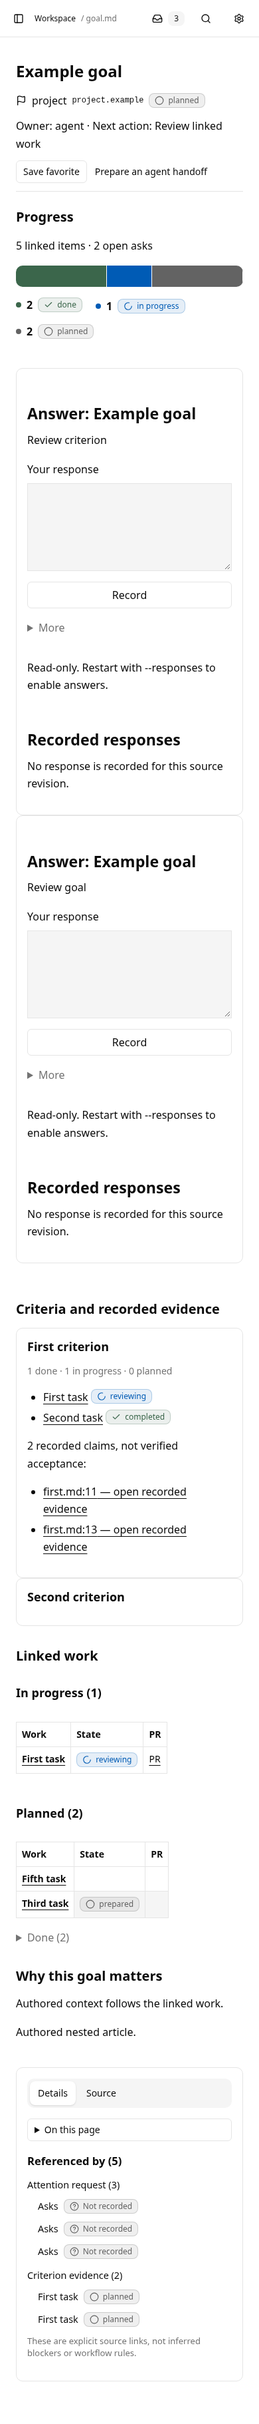
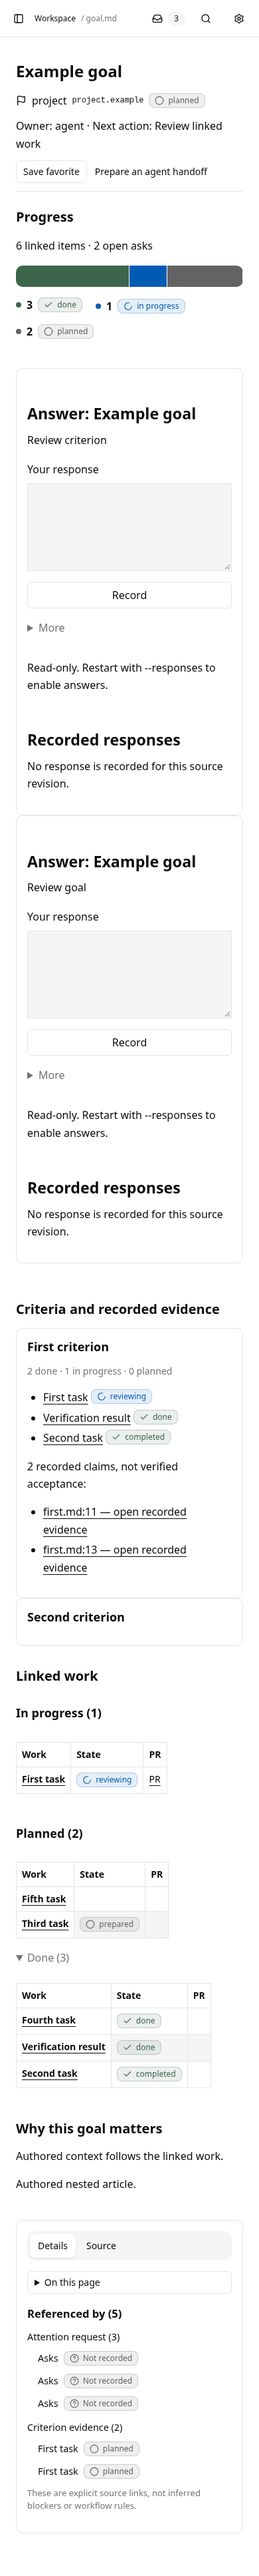
Goal pages read all implementing items from the goals query

diff --git a/packages/work-board/src/client/react/goalLinkedItems.dom.spec.tsx b/packages/work-board/src/client/react/goalLinkedItems.dom.spec.tsx
@@ -1,0 +1,72 @@
+import { Effect } from "effect";
+import { expect } from "vitest";
+import { eventually } from "@shivaedev/effect-react/testing.ts";
+import { it } from "@shivaedev/effect-test/it.ts";
+import type { GoalsProjection } from "#browser/views/GoalsProjection.ts";
+import { routeQueryOptions } from "#client/page/routeQuery.ts";
+import { goalPageFixture } from "#test/goalPageFixture.ts";
+import { renderBoard } from "#test/react.tsx";
+import { DocumentMain } from "./DocumentMain.tsx";
+
+it.live.each(["result", "decision", "question", "response"] as const)("shows an implementing %s in its criterion and work group", function* (kind) {
+	const id = `${kind}.linked`;
+	let readProgress: () => GoalsProjection | undefined = () => undefined;
+	const view = yield* Effect.promise(() =>
+		renderBoard(
+			{
+				...goalPageFixture(),
+				"linked.md": `---
+id: ${id}
+kind: ${kind}
+status: done
+relationships:
+ - kind: implements
+   target: project.example#first
+ - kind: implements
+   target: project.example
+---
+# Linked ${kind}`,
+			},
+			(api, registry) => {
+				const query = api.goals.query(undefined, routeQueryOptions);
+				readProgress = () => {
+					const result = registry.get(query);
+					return result._tag === "Success" ? result.value : undefined;
+				};
+				return <DocumentMain api={api} onPage={() => undefined} url="/goal.md" />;
+			},
+		),
+	);
+	try {
+		yield* Effect.promise(() => eventually(() => expect(view.container.querySelectorAll("[data-goal-item]")).toHaveLength(6)));
+		const goal = readProgress()?.goals.find((entry) => entry.id === "project.example");
+		expect(goal?.linked).toBe(6);
+		const counts = Object.fromEntries(
+			[...view.container.querySelectorAll<HTMLElement>("[data-goal-counts] [data-count]")].map((segment) => [
+				segment.dataset.status,
+				Number(segment.dataset.count),
+			]),
+		);
+		expect(counts).toEqual(goal?.counts);
+		for (const [item, group] of [
+			[id, "Done"],
+			["task.first", "Planned"],
+			["task.second", "Planned"],
+			["task.third", "Deferred"],
+			["task.fourth", "Done"],
+			["task.fifth", "Planned"],
+		]) {
+			const rows = view.container.querySelectorAll(`[data-goal-item="${item}"]`);
+			expect(rows).toHaveLength(1);
+			expect(rows[0]?.closest("[data-goal-group]")?.getAttribute("data-goal-group")).toBe(group);
+		}
+		const links = view.container.querySelectorAll(`#criterion-first a[href="/_board/item/${id}/"]`);
+		expect(links).toHaveLength(1);
+		expect(links[0]?.parentElement?.querySelector("[data-status-token]")?.textContent).toBe("done");
+		expect(goal?.criteria[0]?.counts).toEqual({ done: 1, "in progress": 0, planned: 2 });
+		expect(view.container.querySelector("#criterion-first [data-criterion-progress]")?.textContent).toBe("1 done · 0 in progress · 2 planned");
+		expect(view.container.querySelector("#criterion-second")?.textContent).toBe("Second criterion");
+	} finally {
+		yield* Effect.promise(() => view.unmount());
+	}
+});

diff --git a/packages/work-board/src/client/react/GoalPage.tsx b/packages/work-board/src/client/react/GoalPage.tsx
@@ -9,15 +9,14 @@ import type { ShellApi } from "./ShellApi.ts";
 
 export function GoalPage({ api, document }: { readonly api: ShellApi; readonly document: Document }) {
 	const progress = useQuery(api.goals.query(undefined, routeQueryOptions), { keepPreviousData: true });
-	const work = useQuery(api.work.query({ url: "/_board/work" }, routeQueryOptions), { keepPreviousData: true });
-	const goal = Option.getOrUndefined(progress.data)?.goals.find((entry) => entry.id === document.identity);
-	const data = Option.getOrUndefined(work.data);
-	const items = data ? [...data.items, ...data.boards].filter((item) => targetsGoal(item, document.identity ?? "")) : undefined;
+	const data = Option.getOrUndefined(progress.data);
+	const goal = data?.goals.find((entry) => entry.id === document.identity);
+	const items = data?.items.filter((item) => targetsGoal(item, document.identity ?? ""));
 	return (
 		<div className="goal-page space-y-6">
 			<GoalCriteria document={document} items={items} progress={goal?.criteria} />
-			{items ? <GoalWorkTable items={items} /> : <p role="status">{work.pending ? "Loading linked work…" : "Linked work unavailable."}</p>}
-			{Option.isSome(work.cause) && <p role="status">Linked work refresh failed.</p>}
+			{items ? <GoalWorkTable items={items} /> : <p role="status">{progress.pending ? "Loading linked work…" : "Linked work unavailable."}</p>}
+			{Option.isSome(progress.cause) && <p role="status">Linked work refresh failed.</p>}
 		</div>
 	);
 }

diff --git a/packages/work-board/src/client/react/goalPageStates.dom.spec.tsx b/packages/work-board/src/client/react/goalPageStates.dom.spec.tsx
@@ -64,7 +64,14 @@ it.live("shows zero open asks and keeps untargeted criteria quiet", function* ()
 
 it.live("keeps closed projects outside the open-goals query and still shows criteria and work", function* () {
 	const view = yield* Effect.promise(() =>
-		renderBoard(goalPageFixture(), (api) => <DocumentMain api={api} onPage={() => undefined} url="/closed.md" />),
+		renderBoard(
+			{
+				...goalPageFixture(),
+				"closed-result.md":
+					"---\nid: result.closed\nkind: result\nstatus: done\nrelationships:\n - kind: implements\n   target: project.closed\n---\n# Closed result",
+			},
+			(api) => <DocumentMain api={api} onPage={() => undefined} url="/closed.md" />,
+		),
 	);
 	try {
 		yield* Effect.promise(() =>
@@ -76,6 +83,10 @@ it.live("keeps closed projects outside the open-goals query and still shows crit
 		);
 		expect(view.container.querySelector('[data-goal-section="criteria"]')).not.toBeNull();
 		expect(view.container.querySelector('[data-goal-section="work"]')).not.toBeNull();
+		expect(view.container.querySelectorAll('[data-goal-item="result.closed"]')).toHaveLength(1);
+		expect(view.container.querySelector('[data-goal-item="result.closed"]')?.closest("[data-goal-group]")?.getAttribute("data-goal-group")).toBe(
+			"Done",
+		);
 	} finally {
 		yield* Effect.promise(() => view.unmount());
 	}

diff --git a/packages/work-board/src/client/react/goalWork.ts b/packages/work-board/src/client/react/goalWork.ts
@@ -1,8 +1,8 @@
 import type { FleetItemsProjection } from "#browser/views/FleetItemsProjection.ts";
+import type { GoalsProjection } from "#browser/views/GoalsProjection.ts";
 import { goalWorkGroup } from "#browser/views/goalWorkState.ts";
-import type { WorkProjection } from "#browser/views/schema.ts";
 
-export type GoalWorkItem = WorkProjection["items"][number];
+export type GoalWorkItem = GoalsProjection["items"][number];
 export const goalGroups = ["In progress", "Planned", "Done", "Deferred"] as const;
 type FleetReady = Extract<FleetItemsProjection, { readonly state: "ready" }>;
 export type GoalRun = FleetReady["items"][number] | FleetReady["completed"][number];

diff --git a/packages/work-board/src/server/rpc/goalProgress.spec.ts b/packages/work-board/src/server/rpc/goalProgress.spec.ts
@@ -47,7 +47,12 @@ it.live("counts linked work, criterion claims and eligible Inbox asks through th
 				unlinked: false,
 			},
 		],
+		items: expect.arrayContaining([
+			expect.objectContaining({ file: "first.md", id: "task.first", title: "First task" }),
+			expect.objectContaining({ file: "fifth.md", id: "task.fifth", title: "Fifth task" }),
+		]),
 	});
+	expect(result.items).toHaveLength(5);
 	notes.write("fifth.md", goalsFixture()["fifth.md"]?.replace("kind: task", "kind: task\nstatus: In Review") ?? "");
 	yield* Effect.promise(() =>
 		waitFor(() => {

diff --git a/packages/work-board/src/browser/views/GoalsProjection.ts b/packages/work-board/src/browser/views/GoalsProjection.ts
@@ -1,4 +1,5 @@
 import { Schema } from "effect";
+import { WorkItem } from "./schema.ts";
 
 const Counts = Schema.Struct({ done: Schema.Number, "in progress": Schema.Number, planned: Schema.Number });
 const Criterion = Schema.Struct({ counts: Counts, evidence: Schema.Number, id: Schema.String, linked: Schema.Number, text: Schema.String });
@@ -17,5 +18,6 @@ export const GoalsProjection = Schema.Struct({
 			unlinked: Schema.Boolean,
 		}),
 	),
+	items: Schema.Array(WorkItem),
 });
 export type GoalsProjection = typeof GoalsProjection.Type;

diff --git a/packages/work-board/src/server/views/goals.ts b/packages/work-board/src/server/views/goals.ts
@@ -56,5 +56,8 @@ export function goals(snapshot: Snapshot, fleet?: FleetItemsProjection): GoalsPr
 					unlinked: linked.length === 0,
 				};
 			}),
+		items: items
+			.filter((item) => item.document.parsed.fields.relationships?.some((link) => link.kind === "implements"))
+			.map(({ document, id, title }) => ({ file: document.file, id, metadata: document.parsed.fields, title })),
 	};
 }

diff --git a/packages/work-board/src/browser/views/schema.ts b/packages/work-board/src/browser/views/schema.ts
@@ -4,7 +4,7 @@ import { Metadata } from "#metadata/schema.ts";
 import { State } from "./state.ts";
 
 const Link = Schema.Struct({ href: Schema.optional(Schema.String), label: Schema.String });
-const WorkItem = Schema.Struct({
+export const WorkItem = Schema.Struct({
 	file: Schema.String,
 	fleetApproved: Schema.optional(Schema.Boolean),
 	id: Schema.String,

diff --git a/packages/work-board/README.md b/packages/work-board/README.md
@@ -415,7 +415,7 @@ A `kind: project` page puts goal progress before its authored Markdown: a large 
 
 Each criterion shows its progress split in one small line, targeting items and recorded evidence when present. Untargeted criteria retain their text without an extra label; absent evidence stays quiet. The table shows each implementing item once under nonempty In progress, Planned, Done (collapsed) or Deferred groups. Each row and criterion link has one state chip: the Fleet stage while held, otherwise the authored status. A released stage falls back to authored status; missing status and missing PR leave blank cells. Items without status belong to Planned. The outline rail remains beside the prose on wide screens and follows it on narrow screens. Closed projects are outside the open-goals query and show progress as unavailable.
 
-`client.api.goals.query()` returns `{ goals }` for uniquely identified `kind: project` documents with an open status, using the Inbox's open-item convention. Each goal includes `id`, `title`, optional authored `status`, `owner` and `nextAction`, and `criteria`. `linked` counts distinct identified items with an `implements` relationship targeting the goal or a criterion anchor. `counts` always has `done`, `"in progress"` and `planned` numbers, including zeros. Fleet-held stages override authored status: completed is done, prepared is planned and other held stages are in progress. Released stages and unavailable Fleet fall back to authored status: closed statuses are done, planned, deferred and missing statuses are planned, and other statuses are in progress. Deferred work keeps its own table group but contributes to planned progress. Multiple matching relationships on one item count once. Each criterion includes its `id`, `text`, `linked`, `counts` and `evidence`, the number of recorded claims targeting that exact criterion across indexed documents. `openAsks` counts eligible active Inbox rows whose targets include the goal, its criteria or a linked item, once per grouped row; it cannot exceed the Inbox count. A goal without linked items has zero counts, `linked: 0` and `unlinked: true`; an untargeted criterion has `linked: 0`. The query returns no completion percentage or overall success flag. Mounted queries refresh when indexed source changes.
+`client.api.goals.query()` returns `{ goals, items }`. `items` contains every uniquely identified implementing document, including results, decisions, questions, responses and work targeting closed projects, with `file`, `id`, `title` and `metadata`. Goal criteria and work tables select from this same set used for counts. `goals` contains uniquely identified `kind: project` documents with an open status, using the Inbox's open-item convention. Each goal includes `id`, `title`, optional authored `status`, `owner` and `nextAction`, and `criteria`. `linked` counts distinct identified items with an `implements` relationship targeting the goal or a criterion anchor. `counts` always has `done`, `"in progress"` and `planned` numbers, including zeros. Fleet-held stages override authored status: completed is done, prepared is planned and other held stages are in progress. Released stages and unavailable Fleet fall back to authored status: closed statuses are done, planned, deferred and missing statuses are planned, and other statuses are in progress. Deferred work keeps its own table group but contributes to planned progress. Multiple matching relationships on one item count once. Each criterion includes its `id`, `text`, `linked`, `counts` and `evidence`, the number of recorded claims targeting that exact criterion across indexed documents. `openAsks` counts eligible active Inbox rows whose targets include the goal, its criteria or a linked item, once per grouped row; it cannot exceed the Inbox count. A goal without linked items has zero counts, `linked: 0` and `unlinked: true`; an untargeted criterion has `linked: 0`. The query returns no completion percentage or overall success flag. Mounted queries refresh when indexed source changes.
 
 For a handoff, first read the preview with `client.run(client.handoffs.handoffSource.run({ item: "work.search" }))` and inspect its `context`. This complete program takes that reviewed path and revision as inputs:
 

diff --git a/packages/work-board/changes/goal-reading.md b/packages/work-board/changes/goal-reading.md
@@ -5,3 +5,7 @@
 ### Changed
 
 - Goal and criterion `counts` now always contain `done`, `"in progress"` and `planned`, including zeros. Held Fleet stages override authored status; released stages fall back to authored status. Deferred and unrecorded work count as planned. `goals(snapshot, fleet?)` accepts an optional Fleet projection. Internal Inbox rows retain their `unblocks` targets for goal-specific counts; browser Inbox projections keep their existing shape.
+
+### Fixed
+
+- Goal criteria and linked-work tables include every identified implementing item, including results, decisions, questions and responses. The goals query returns these items alongside its counts, including links to closed projects.
